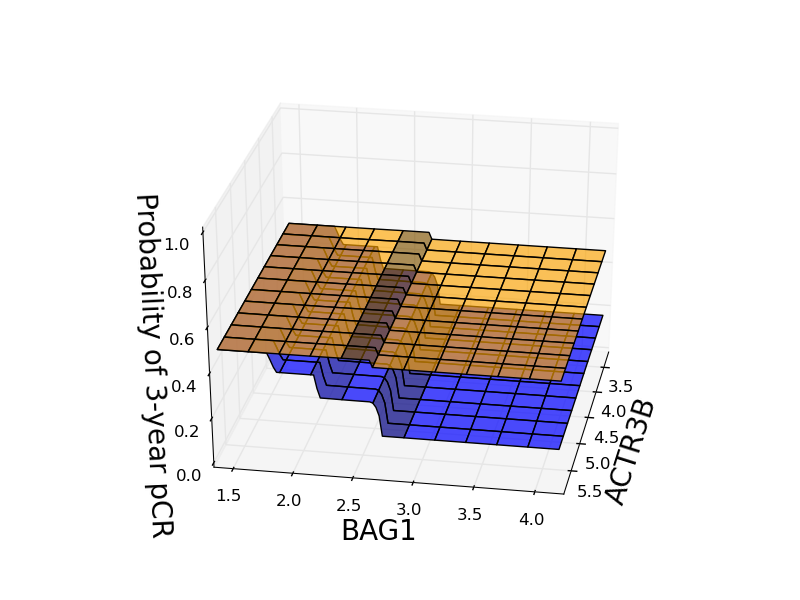
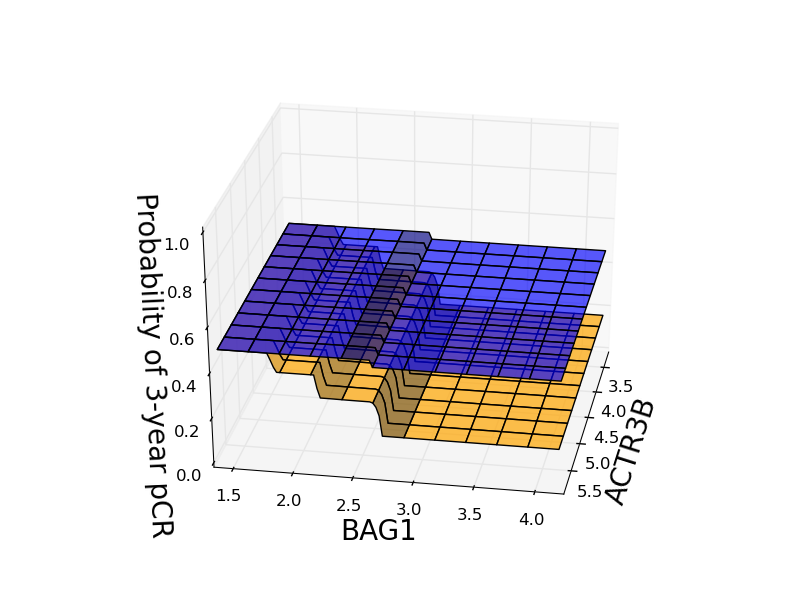
fixed colors in data example plots

Changed region(s): [[0.2812, 0.36, 0.75, 0.75]]

diff --git a/Functions/qualitativeinteractions.py b/Functions/qualitativeinteractions.py
@@ -637,12 +637,12 @@ def plot_fitted_values(hypothesis, X, Y,
     ord_treat = np.argsort(X_treat, axis=0)[:, 0]
     plt.clf()
     if include_truth == True:
-        plt.scatter(X_truth[ind_control_truth], Y_truth[ind_control_truth], color="blue", s=3)
-        plt.scatter(X_truth[ind_treat_truth], Y_truth[ind_treat_truth], color="DarkOrange", s=3)
-    plt.scatter(X[ind_control, 0], Y[ind_control, 0], color="blue", s=3)
-    plt.scatter(X[ind_treat, 0], Y[ind_treat, 0], color="DarkOrange", s=3)
-    plt.plot(X_control[ord_control], fitted_control[ord_control], label="treatment = 0", color="blue", linewidth=4)
-    plt.plot(X_treat[ord_treat], fitted_treat[ord_treat], label="treatment = 1", color="DarkOrange", linewidth=4)
+        plt.scatter(X_truth[ind_control_truth], Y_truth[ind_control_truth], color="DarkOrange", s=3)
+        plt.scatter(X_truth[ind_treat_truth], Y_truth[ind_treat_truth], color="blue", s=3)
+    plt.scatter(X[ind_control, 0], Y[ind_control, 0], color="DarkOrange", s=3)
+    plt.scatter(X[ind_treat, 0], Y[ind_treat, 0], color="blue", s=3)
+    plt.plot(X_control[ord_control], fitted_control[ord_control], label="treatment = 0", color="DarkOrange", linewidth=4)
+    plt.plot(X_treat[ord_treat], fitted_treat[ord_treat], label="treatment = 1", color="blue", linewidth=4)
     plt.title(plot_title)
     if response_name is not None:
         plt.ylabel(response_name, fontsize=labels_fontsize)
@@ -703,12 +703,12 @@ def plot_fitted_surface(response_type, hypothesis, X,
     fig = plt.figure()
     ax = fig.gca(projection='3d')
     if groups_to_show == "both":
-        ax.plot_surface(X=x_grid, Y=y_grid, Z=Z_control_fitted, color="blue", alpha=alpha_control)
-        ax.plot_surface(X=x_grid, Y=y_grid, Z=Z_treat_fitted, color="orange", alpha=alpha_treat)
+        ax.plot_surface(X=x_grid, Y=y_grid, Z=Z_control_fitted, color="orange", alpha=alpha_control)
+        ax.plot_surface(X=x_grid, Y=y_grid, Z=Z_treat_fitted, color="blue", alpha=alpha_treat)
     elif groups_to_show == "control_only":
-        ax.plot_surface(X=x_grid, Y=y_grid, Z=Z_control_fitted, color="blue", alpha=alpha_control)
+        ax.plot_surface(X=x_grid, Y=y_grid, Z=Z_control_fitted, color="orange", alpha=alpha_control)
     elif groups_to_show == "treat_only":
-        ax.plot_surface(X=x_grid, Y=y_grid, Z=Z_treat_fitted, color="orange", alpha=alpha_treat)
+        ax.plot_surface(X=x_grid, Y=y_grid, Z=Z_treat_fitted, color="blue", alpha=alpha_treat)
     else:
         raise NameError("need to show either both groups, control only, or treat only")
     if feature_names is None:
